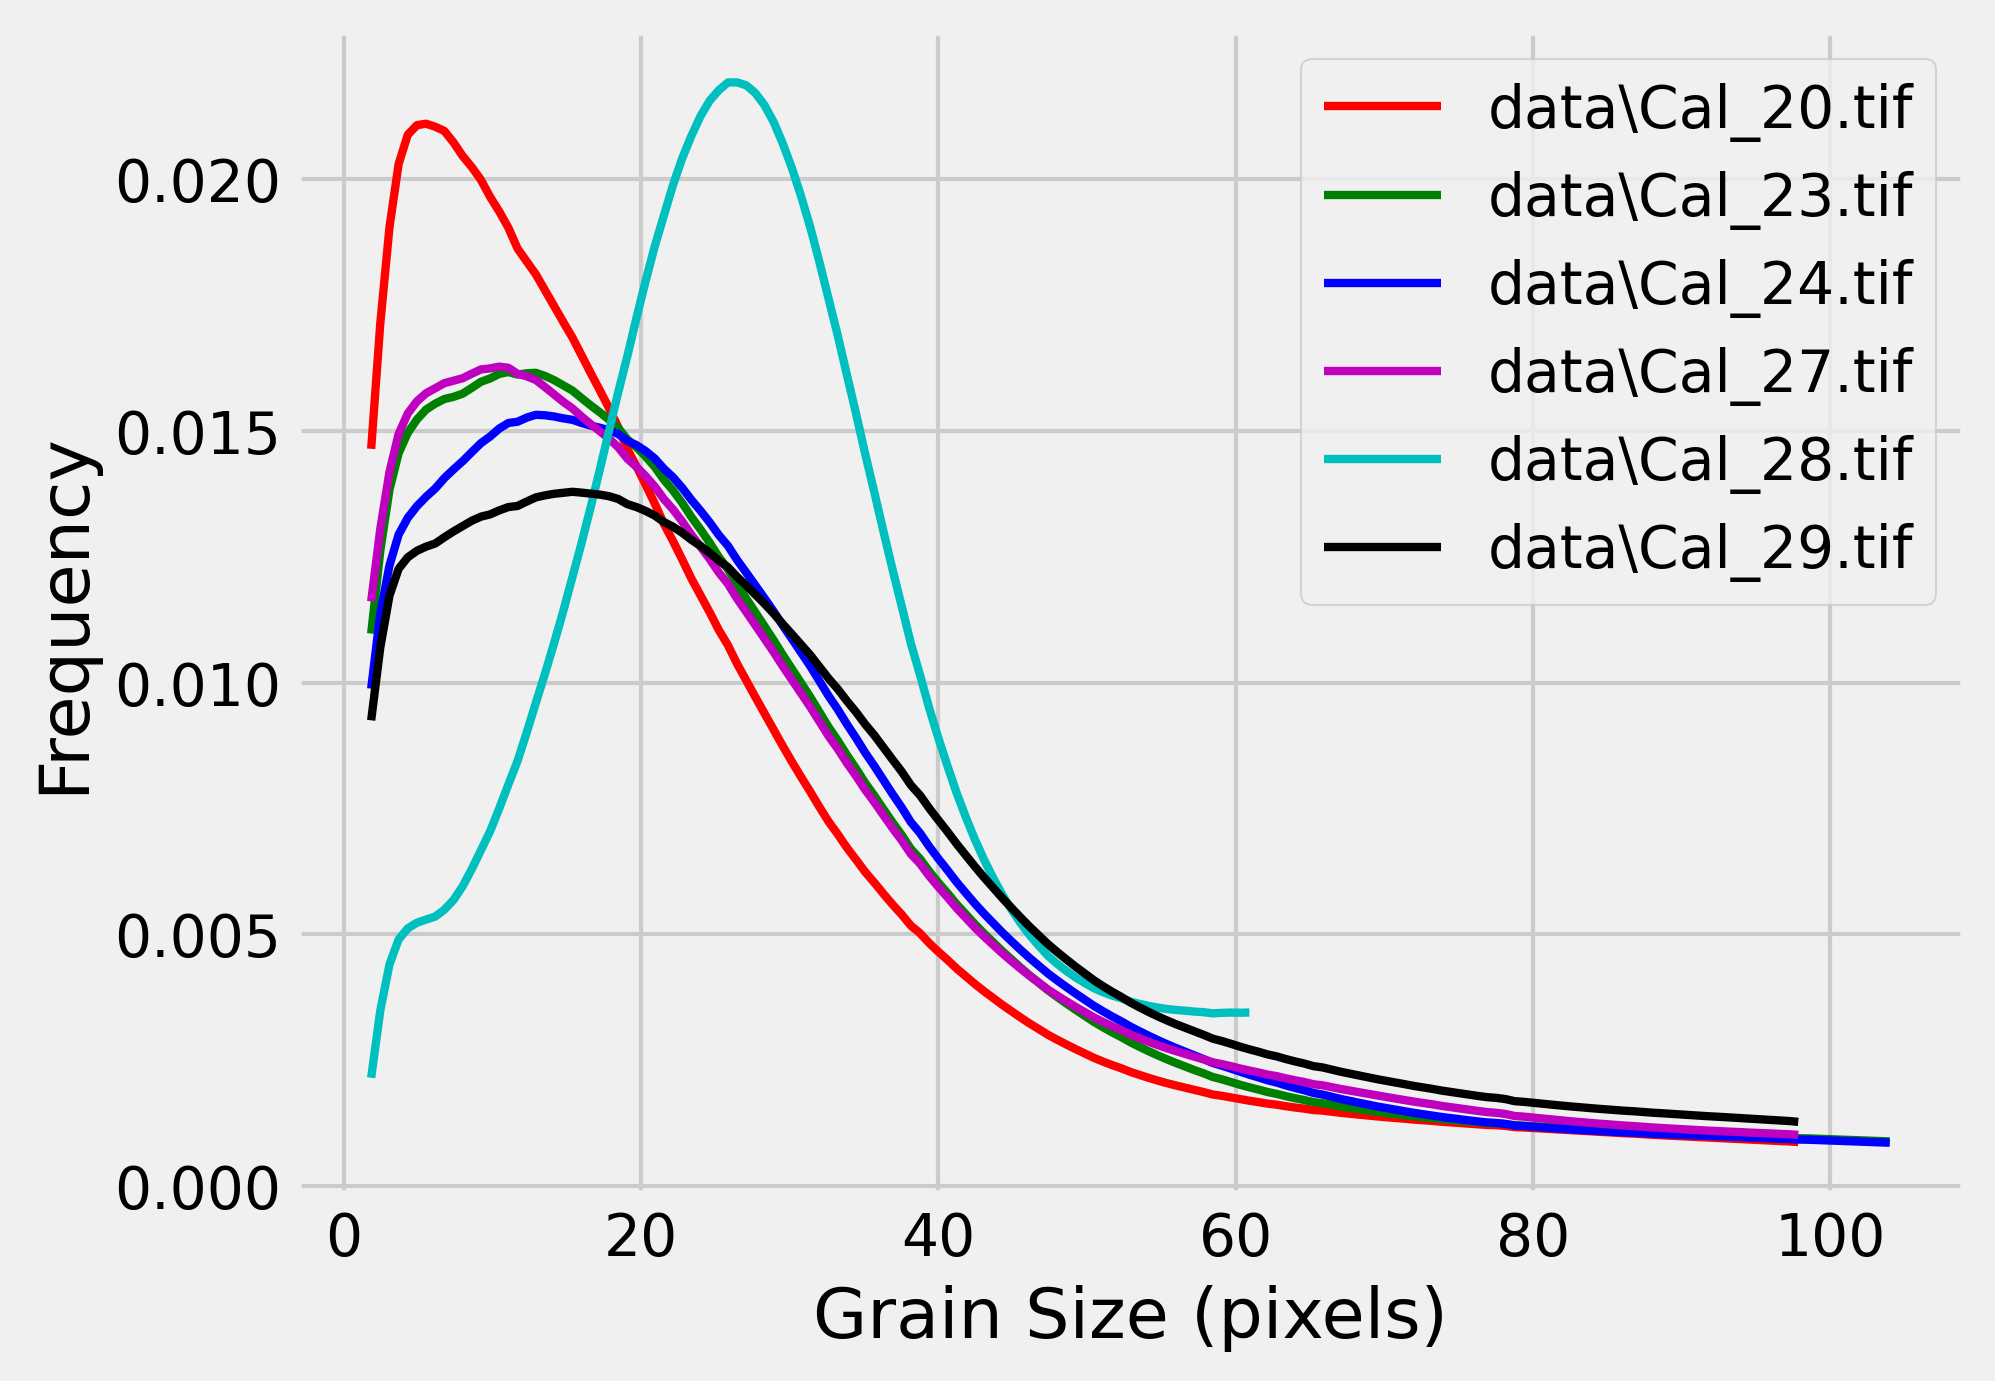
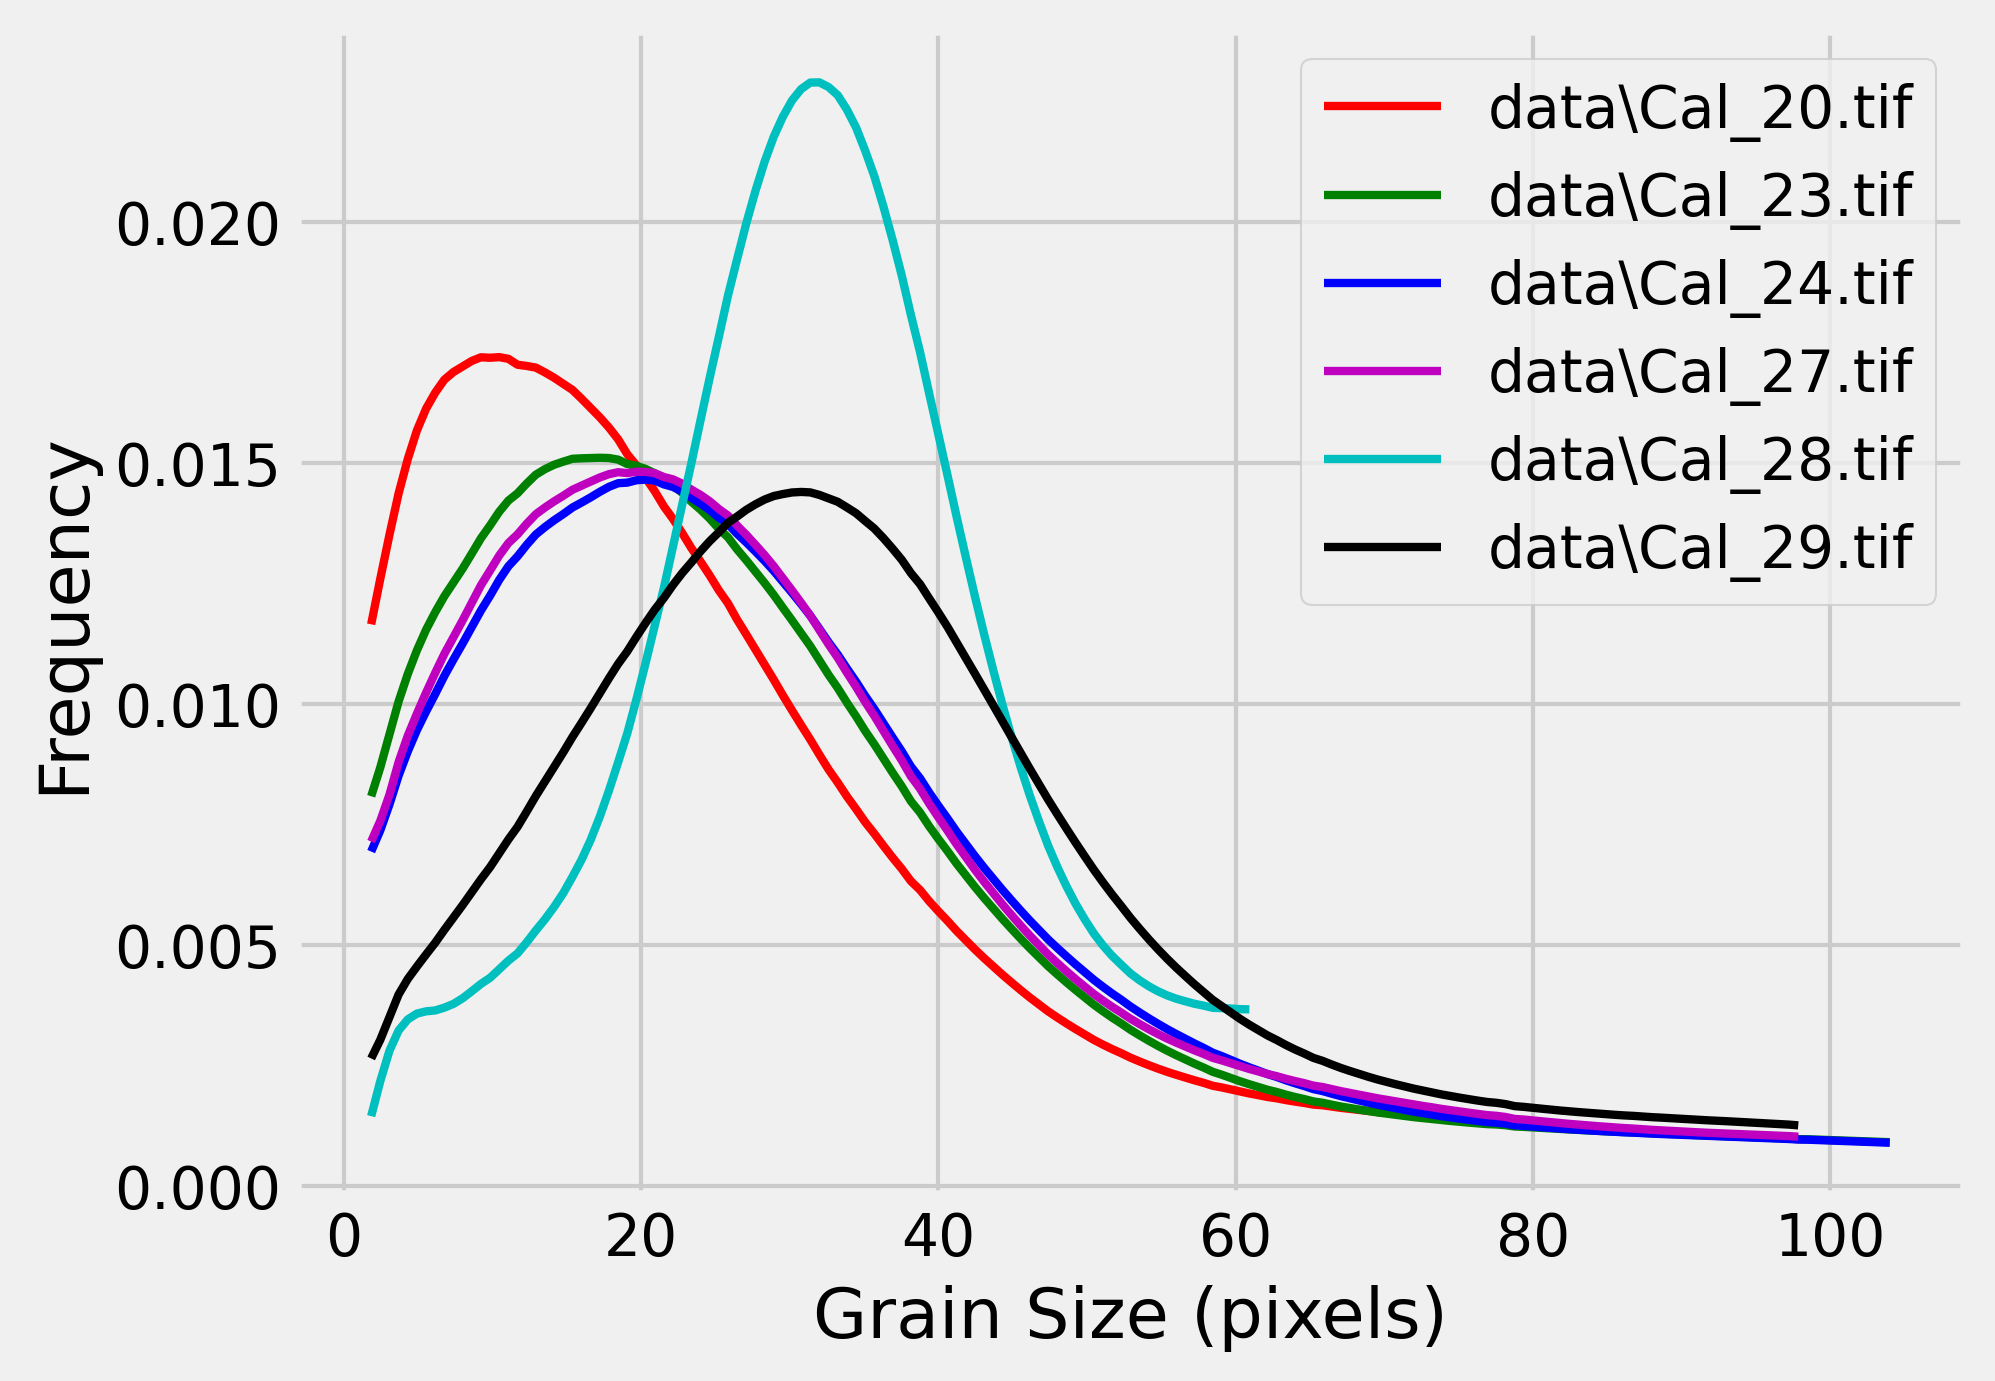
fixed filter option at cmd

Changed region(s): [[0.0622, 0.0623, 0.9634, 0.8407], [0.0622, 0.0934, 0.1554, 0.1868]]

diff --git a/run_dgs.py b/run_dgs.py
@@ -33,11 +33,11 @@ from tkinter.filedialog import askopenfilename, askdirectory
 from datetime import datetime
 
 #================================================================
-def do_dgs(resolution, maxscale, x, verbose, files, filter):
+def do_dgs(resolution, maxscale, x, verbose, files, f):
 
    ALL_RES = []
    for f in tqdm(files): #tqdm gives you a progress bar
-      data_out = dgs(f, 1, maxscale, verbose, x, filter)
+      data_out = dgs(f, 1, maxscale, verbose, x, f)
       ALL_RES.append(data_out)
 
    ## parse out dict into three separate dictionaries
@@ -132,10 +132,10 @@ if __name__ == '__main__':
             print('you could also use it as an empirical tuning coefficient against field data (recommended)')
             print('======================================')
             print('======================================')
-            print('Example usage: python run_dgs.py -r 0.04')
+            print('Example usage: python run_dgs.py -r 0.04 -f 0')
             print('Example usage: python run_dgs.py -m 20')
             print('Example usage: python run_dgs.py -r 0.04 -m 10 -x 0.5')
-            print('Example usage: python run_dgs.py -r 0.04 -m 20 -x -0.1')
+            print('Example usage: python run_dgs.py -r 0.04 -m 20 -x -0.1 -f 1')
             print('Example usage: python run_dgs.py -x -0.5')
             print('======================================')
             sys.exit()
@@ -150,7 +150,9 @@ if __name__ == '__main__':
             x = float(x)
         elif opt in ("-f"):
             f = arg
-            f = float(f)
+            f = int(f)
+
+    print(f)
 
     if 'resolution' not in locals():
         resolution = 1
@@ -161,13 +163,17 @@ if __name__ == '__main__':
     if 'x' not in locals():
         x = 0.0
         print('Warning: specify "x" for best results, using %f by default' % (x))
-
     if 'f' not in locals():
-        f = False
-    elif f==0:
-        f = False 
-    elif f==1:
-        f = True
+        f = 0
+        print('Warning: no filter specified. Using filter = {} by default'.format(f))
+
+    if f>1:
+        f = 0
+        print("Filter is 0 for False and 1 for True. Setting to False")
+
+    if f<0:
+        f = 0
+        print("Filter is 0 for False and 1 for True. Setting to False")
 
     Tk().withdraw() # we don't want a full GUI, so keep the root window from appearing
     files = askopenfilename(title='Select image files', multiple=True, filetypes=[("Pick files","*.*")])
@@ -192,6 +198,10 @@ if __name__ == '__main__':
        x = np.asarray(x, float)
        print('Area to volume conversion constant = '+str(x))
 
-    do_dgs(resolution, maxscale, x, verbose, files)
+    if f:
+       f = np.asarray(f, int)
+       print('Filter = '+str(f))
+
+    do_dgs(resolution, maxscale, x, verbose, files, f)
 
 ##

diff --git a/dgs.py b/dgs.py
@@ -82,7 +82,7 @@ def standardize(img):
 
 # =========================================================
 # =========================================================
-def dgs(image, resolution=1, maxscale=4, verbose=1, x=-0.5, filter=False):
+def dgs(image, resolution=1, maxscale=4, verbose=1, x=-0.5, f=0):
 
    if verbose==1:
       print("===========================================")
@@ -93,7 +93,7 @@ def dgs(image, resolution=1, maxscale=4, verbose=1, x=-0.5, filter=False):
       print("===========================================")
       print("======A PROGRAM BY DANIEL BUSCOMBE=========")
       print("====MARDASCIENCE, FLAGSTAFF, ARIZONA=======")
-      print("========REVISION 4.2, APR 2022===========")
+      print("========REVISION 4.3, NOV 2022===========")
       print("===========================================")
 
    # exit program if no input folder given
@@ -145,7 +145,7 @@ def dgs(image, resolution=1, maxscale=4, verbose=1, x=-0.5, filter=False):
    # Denoised image using default parameters of `denoise_wavelet`
    # filter=False
 
-   if filter:
+   if f==1:
       sigma_est = estimate_sigma(im, multichannel=False, average_sigmas=True)
       region = denoise_wavelet(im, multichannel=False, rescale_sigma=True,
                                  method='VisuShrink', mode='soft', sigma=sigma_est*2)
@@ -227,4 +227,4 @@ def dgs(image, resolution=1, maxscale=4, verbose=1, x=-0.5, filter=False):
 # =========================================================
 if __name__ == '__main__':
 
-   dgs(image, resolution=1, maxscale=8, verbose=0, x=-1, filter=False)
+   dgs(image, resolution=1, maxscale=8, verbose=0, x=-1, f=False)

diff --git a/test.py b/test.py
@@ -46,8 +46,11 @@ def dotest1(image, with_plot=False):
    #you could also use it as an empirical tuning coefficient against field data (recommended)
    x = 0
 
+   # 0 means do not apply denoising filter
+   filter = 0
+
    #I recommend you compute in pixels (resolution=1) then apply your resolution scaling afterwards
-   data_out = dgs(image, resolution, maxscale, verbose, x)
+   data_out = dgs(image, resolution, maxscale, verbose, x, filter)
 
    ## parse out dict into three separate dictionaries
    stats = dict(list(data_out.items())[:4])
@@ -112,9 +115,12 @@ def dotest_batch(folder, set=1, with_plot=False):
    #you could also use it as an empirical tuning coefficient against field data (recommended)
    x = 0
 
+   # 1 means apply denoising filter
+   filter = 1
+
    ALL_RES = []
    for f in tqdm(files): #tqdm gives you a progress bar
-      data_out = dgs(f, resolution, maxscale, verbose, x)
+      data_out = dgs(f, resolution, maxscale, verbose, x, filter)
       ALL_RES.append(data_out)
 
 

diff --git a/README.md b/README.md
@@ -52,7 +52,7 @@ Or use the provided script
 
 Full syntax:
 
-`python run_dgs.py {-r resolution in mm per pixel (float)} {-m maxscale *see below (integer)} {-x "x" parameter **see below (float) }`
+`python run_dgs.py {-r resolution in mm per pixel (float)} {-m maxscale *see below (integer)} {-x "x" parameter **see below (float) {-f filter*** (0 or 1)} }`
 
 *the maximum scale (grain size) considered by the wavelet is the horizontal width dimension divided by this number
 so if your image is 2000 pixels wide and maxscale=8, only grains up to 2000/8 = 250 pixels are considered')
@@ -60,15 +60,17 @@ so if your image is 2000 pixels wide and maxscale=8, only grains up to 2000/8 = 
 **this is the area to volume conversion coefficient. See Cuttler et al (provided)')
 you could also use it as an empirical tuning coefficient against field data (recommended)')
 
+*** use 0 for False and 1 for True
+
 Note that you have to experiment a little with values of both 'm' and 'x' to get good results. 
 
 Example usage
 
 ```
-python run_dgs.py -r 0.04
+python run_dgs.py -r 0.04 -f 0
 python run_dgs.py -m 20
 python run_dgs.py -r 0.04 -m 10 -x 0.5
-python run_dgs.py -r 0.04 -m 20 -x -0.1
+python run_dgs.py -r 0.04 -m 20 -x -0.1 -f 1
 python run_dgs.py -x -0.5
 ```
 
@@ -81,6 +83,7 @@ python run_dgs.py -x -0.5
  * `resolution` = spatial resolution of image in mm/pixel `[1][>0]`. For results in pixels, use resolution = 1
  * `x` = area-by-number to volume-by-number conversion `[0] [-1 - +1]`
  * `maxscale` =  the maximum scale (grain size) considered by the wavelet is the horizontal width dimension divided by this number. So if your image is 1000 pixels wide and maxscale=4, only grains up to 1000/4 = 250 pixels are considered
+ * `filter` = apply a wavelet denoising filter. May help results in some cases (no guarantees!)
 
 See also Cuttler et al., 2017 (in `docs`) for details on the implementation of the area-by-number to volume-by-number conversion. You could also use it as an empirical tuning coefficient against field data (recommended)
 
